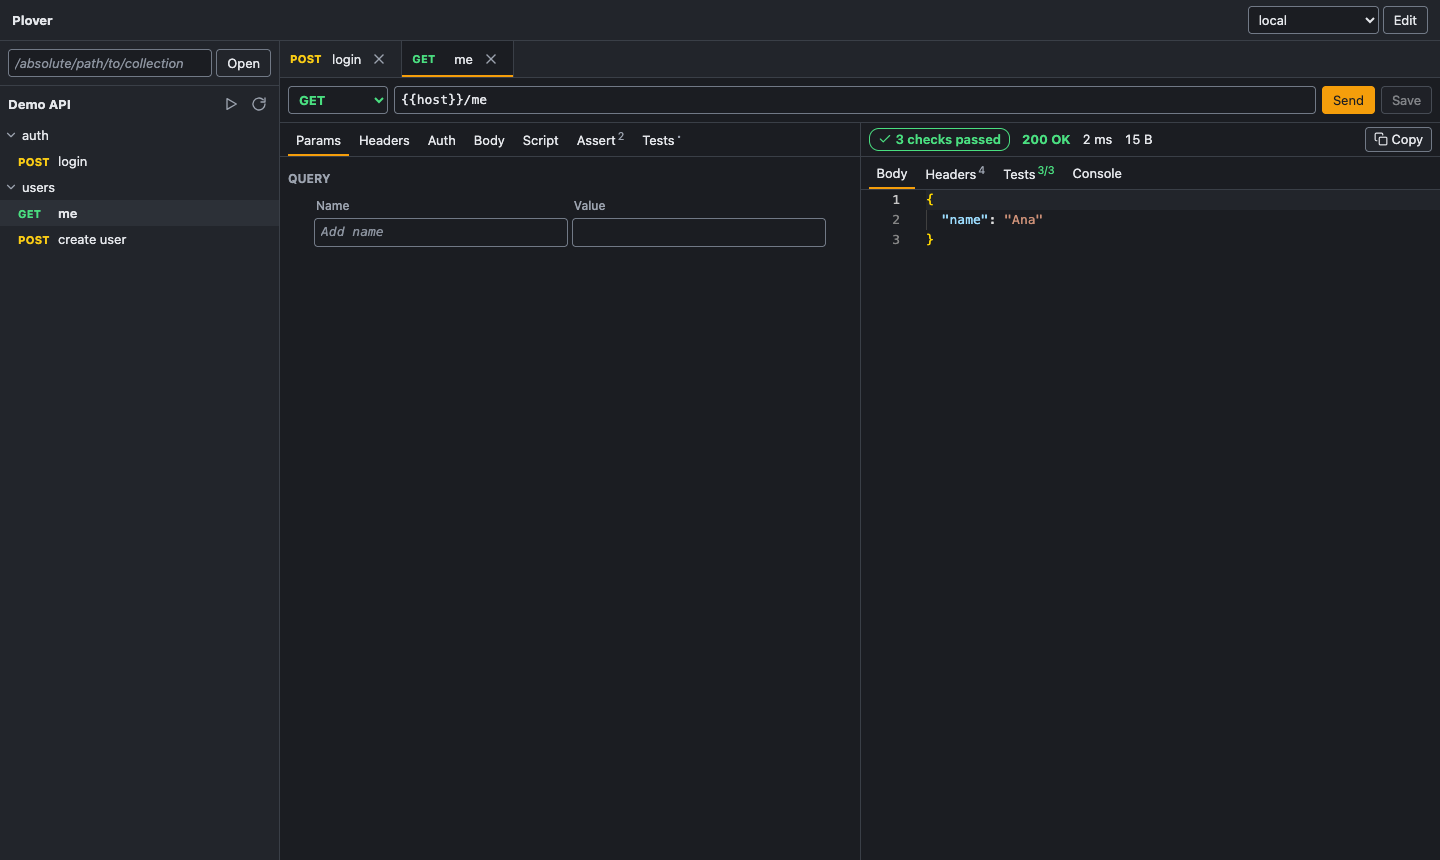
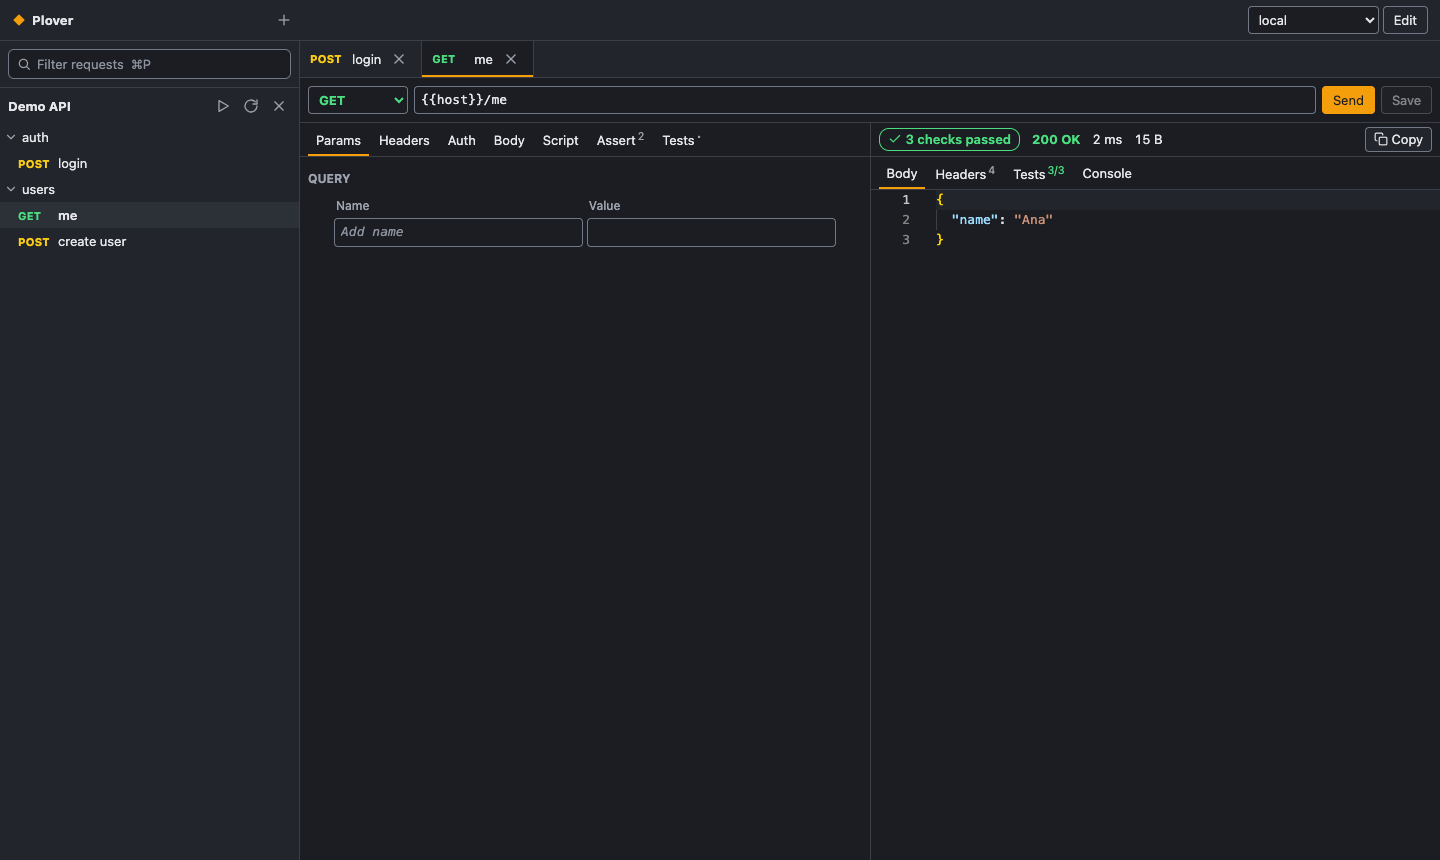
docs: remembered collections, new header and shortcuts in README; fresh screenshots
The sidebar now shows a short reason for an unavailable collection (full error in
the tooltip). README and docs/development.md describe state.json and
PLOVER_STATE_DIR; screenshots show the new header and filter.

diff --git a/frontend/src/styles.css b/frontend/src/styles.css
@@ -121,7 +121,8 @@ button.text { border: none; background: none; padding: 2px 6px; min-height: 24px
 button.text:hover { background: var(--bg-3); }
 .collection.unavailable .collection-header { color: var(--muted); }
 .collection.unavailable .collection-header svg { color: var(--warn); flex: none; }
-.unavailable-reason { margin: 0 12px 8px 28px; font-size: 12px; color: var(--muted); overflow-wrap: anywhere; }
+.unavailable-reason { margin: 0 12px 8px 28px; font-size: 12px; color: var(--muted); overflow-wrap: anywhere; cursor: help; }
+.mono { font-family: ui-monospace, SFMono-Regular, Menlo, monospace; }
 .empty-state .actions { justify-content: flex-start; flex-wrap: wrap; }
 .empty-state .actions button { display: inline-flex; align-items: center; gap: 6px; }
 .collection-header { display: flex; align-items: center; gap: 4px; padding: 6px 8px; border-top: 1px solid var(--border); }

diff --git a/frontend/src/components/Sidebar.tsx b/frontend/src/components/Sidebar.tsx
@@ -4,6 +4,7 @@ import { useTabs, tabKey } from "../store/tabs";
 import { useWorkspace } from "../store/workspace";
 import { AlertIcon, ChevronIcon, CloseIcon, PlayIcon, RefreshIcon, SearchIcon } from "./icons";
 import { Modal } from "./Modal";
+import { shortPath } from "./OpenCollectionPopover";
 
 interface Props {
   onRun?: (collectionId: string, item: string, label: string) => void;
@@ -128,7 +129,9 @@ export function Sidebar({ onRun }: Props) {
                 Remove
               </button>
             </div>
-            <p className="unavailable-reason">{c.error ?? "Not available"}</p>
+            <p className="unavailable-reason" title={c.error ?? undefined}>
+              Not found at <span className="mono">{shortPath(c.root)}</span> — moved or deleted?
+            </p>
           </div>
         ),
       )}

diff --git a/README.md b/README.md
@@ -58,15 +58,27 @@ plv run coll --env local --use-keychain             # read secrets saved by the 
 plv run coll --script-timeout-ms 10000 --script-memory-mb 64
 ```
 
-Web UI shortcuts: `⌘/Ctrl+Enter` send, `⌘/Ctrl+S` save, arrow keys in the sidebar
-tree and tab strips, `Esc` closes dialogs. `⌘/Ctrl+W` closes a request tab in the
-desktop app (browsers keep that shortcut for closing the window).
+In the web UI and the desktop app, **+** next to the Plover name (`⌘/Ctrl+O`) opens a
+collection: paste a path, pick a recent one, or browse (desktop). **Collections are
+remembered**: the next `plv serve` or app launch reopens them with their open tabs,
+expanded folders and selected environment (unsaved edits are not kept). A collection
+whose folder moved or was deleted shows as unavailable with Retry and Remove; × on a
+collection closes it (it stays under Recent). This state lives in `state.json` in
+`~/Library/Application Support/Plover` (macOS), `%APPDATA%\Plover` (Windows) or
+`~/.config/plover` (Linux), or in `PLOVER_STATE_DIR`; it holds paths and layout only,
+never secrets. `plv run` does not use it.
+
+Shortcuts: `⌘/Ctrl+O` open collection, `⌘/Ctrl+P` filter requests (`Esc` clears),
+`⌘/Ctrl+Enter` send, `⌘/Ctrl+S` save, arrow keys in the sidebar tree and tab strips,
+`Esc` closes dialogs. `⌘/Ctrl+W` closes a request tab in the desktop app (browsers
+keep that shortcut for closing the window).
 
 ## Desktop app
 
 The desktop app starts the same local server and UI inside a native window.
 
-- **File → Open Collection…** (`⌘/Ctrl+O`) uses the native folder picker.
+- **File → Open Collection…** (`⌘/Ctrl+O`) and **Browse for folder…** under **+**
+  use the native folder picker. Opened collections come back on the next launch.
 - **Secrets** (`vars:secret` values) are stored in the OS keychain. If the
   keychain is unavailable or access is denied, that secret stays in memory and
   the UI says so. Secrets are never written to `.bru` files.

diff --git a/docs/development.md b/docs/development.md
@@ -121,3 +121,9 @@ python3 scripts/phase3-mock.py 18090 &
 plv run fixtures/phase3-chain --env local      # 3 passed · Tests 5/5 · Asserts 2/2
 ```
 
+## Remembered collections
+
+`plv serve` and the desktop app keep open collections, the recent list and per-collection
+layout in `state.json` (see the README for its location). Set `PLOVER_STATE_DIR` to a
+temp directory when you start them from tests or scripts so they don't touch your real
+list; the CLI tests, `npm run check:console` and the CI smoke step already do.
